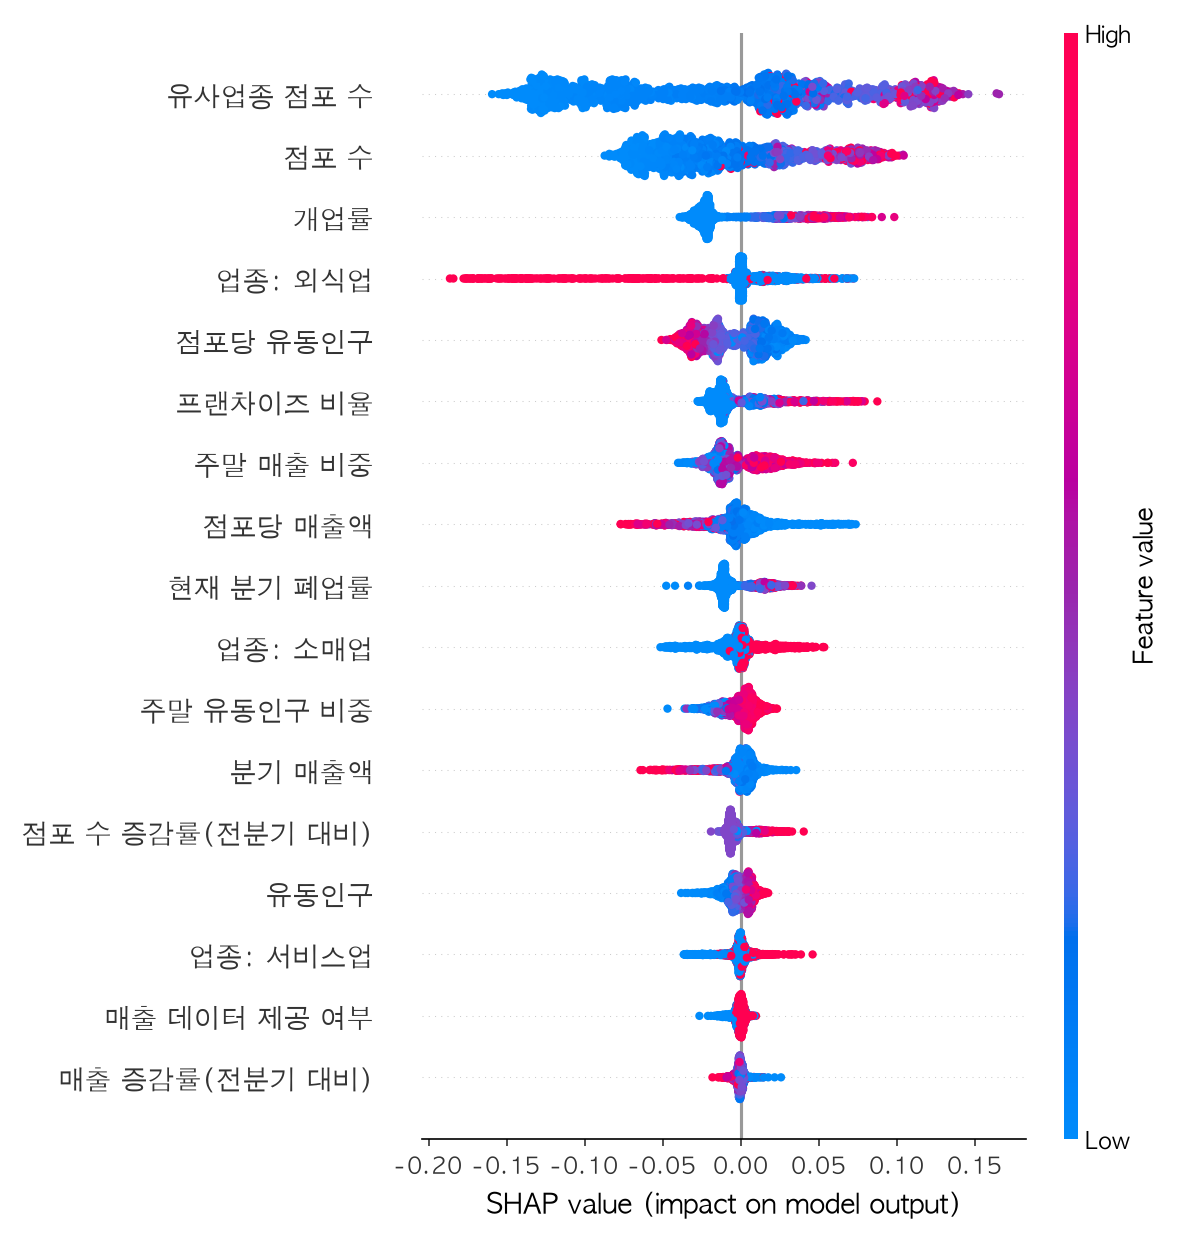
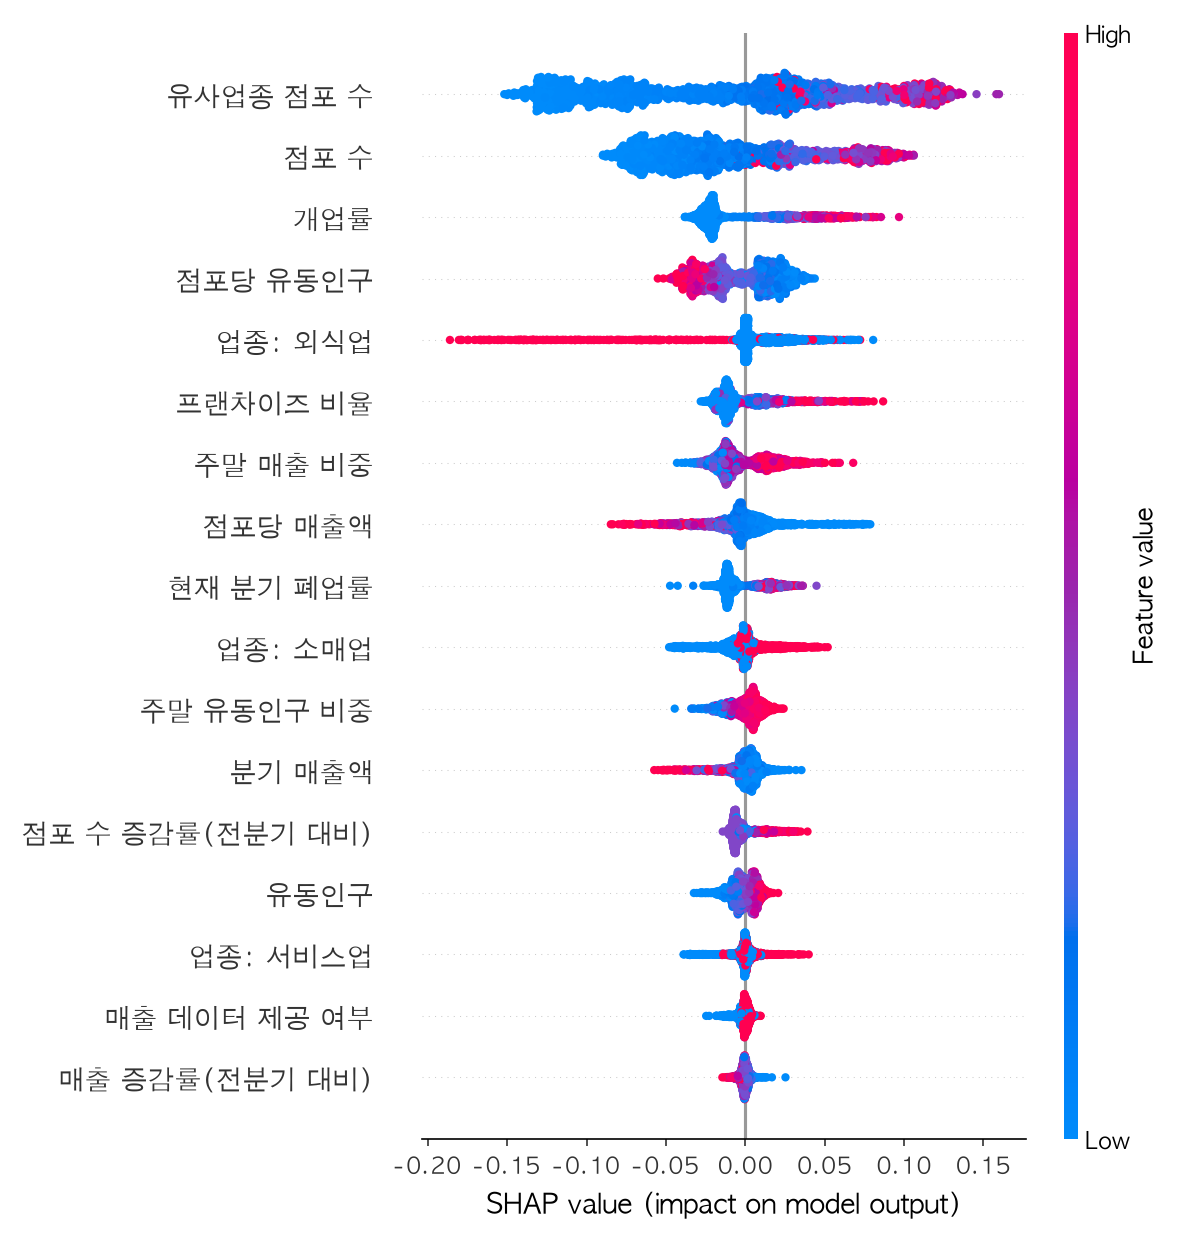
Fix sales_per_store to divide by similar-store count (incl. franchises)
추정매출(THSMON_SELNG_AMT)은 일반+프랜차이즈 전체 합계이므로 같은 범위의 점포 수로 나눔.
재학습 결과 성능은 거의 동일(RF Test AUC 0.734). 문서 수치·그림·화면 캡처 갱신, 개발 일지 기록.

diff --git a/ml/pipeline/preprocess.py b/ml/pipeline/preprocess.py
@@ -79,7 +79,8 @@ def build_dataset() -> tuple[pd.DataFrame, pd.DataFrame]:
     df["qidx"] = quarter_index(df["quarter"])
 
     # 파생 피처
-    df["sales_per_store"] = df["sales_amount"] / df["store_count"].replace(0, np.nan)
+    # 추정매출은 일반+프랜차이즈 전체(= 유사업종 점포)의 합계이므로 같은 범위의 점포 수로 나눈다
+    df["sales_per_store"] = df["sales_amount"] / df["similar_store_count"].replace(0, np.nan)
     df["pop_per_store"] = df["floating_pop"] / df["similar_store_count"].replace(0, np.nan)
     df = add_qoq(df, "store_count", "store_count_qoq")
     df = add_qoq(df, "sales_amount", "sales_qoq")

diff --git a/docs/07_devlog.md b/docs/07_devlog.md
@@ -114,3 +114,22 @@
 - [ ] `ml/pipeline/collect.py`에 거시 지표 수집 추가 → `data/raw/macro.csv`
 - [ ] `preprocess.py`에서 분기 키로 결합, 변화율·업종 교호 피처 생성
 - [ ] 결측치 비교 실험과 함께 거시 지표 추가 전/후 성능 비교
+
+## 2026-10-14 (2) · 추정매출 컬럼 확인 & 피처 수정
+
+### 확인한 것: `THSMON_SELNG_AMT`(당월_매출_금액)
+- 공식 설명은 "추정매출 = 카드 결제금액 ÷ 보정비율"뿐이고, 기간(분기/월)과 집계 방식(합계/평균)은 명시되어 있지 않음
+- 데이터로 확인한 결과 **평균이 아니라 해당 분기·행정동·업종 전체의 합계**
+  - 요일 7개 합, 주중+주말 합, 시간대 6개 합이 모두 `THSMON_SELNG_AMT`와 정확히 일치
+  - 점포 수에 비례해 커짐 (log 기울기 1.22)
+  - 합산 대상은 **일반 + 프랜차이즈 = 유사업종 점포** 전체 (`SIMILR_INDUTY_STOR_CO = STOR_CO + FRC_STOR_CO`가 모든 행에서 성립)
+- 점포당 규모(한식 약 5천만 원, 미용실 약 860만 원)로 보아 **한 달 치 수준으로 추정**. 분기 내 특정 월인지 월평균인지는 미확인 → 서울신용보증재단 데이터분석팀 문의 필요
+- 성별·연령대별 합은 총매출의 약 89% (나머지는 성별·연령 미상 결제)
+
+### 수정한 것
+| # | 결정 | 이유 |
+| --- | --- | --- |
+| D16 | `sales_per_store` 분모를 `STOR_CO` → `SIMILR_INDUTY_STOR_CO`로 변경 | 매출은 프랜차이즈 포함 합계인데 프랜차이즈를 뺀 점포 수로 나눠, 프랜차이즈가 많은 업종(편의점 등)의 점포당 매출이 부풀려졌음 |
+
+- 재학습 결과: Random Forest Test AUC 0.734 → 0.734, Recall 0.627 → 0.627로 **성능 변화는 거의 없음**. 최적 파라미터만 `min_samples_split 50 → 20`, `min_samples_leaf 10 → 30`으로 바뀜
+- 피처 정의가 정확해진 것이 목적이므로 그대로 반영. 예시(신월7동 · 커피-음료) 위험도는 66.1% → 64.4%

diff --git a/docs/04_architecture.md b/docs/04_architecture.md
@@ -79,7 +79,7 @@ biz-risk-predictor/
 해당 업종의 모든 행정동 위험도를 반환합니다. (Top 10 목록과 향후 지도 표시에 사용)
 
 ```json
-[{ "dong_code": "11470611", "dong_name": "신월7동", "probability": 0.6612, "level": "위험" }]
+[{ "dong_code": "11470611", "dong_name": "신월7동", "probability": 0.6437, "level": "위험" }]
 ```
 
 ### `GET /diagnose?dong_code=11470611&industry_code=CS100010`
@@ -88,13 +88,13 @@ biz-risk-predictor/
 {
   "quarter": "20262",
   "gu_name": "양천구", "dong_name": "신월7동", "industry_name": "커피-음료",
-  "probability": 0.6612, "level": "위험", "base_value": 0.4999,
+  "probability": 0.6437, "level": "위험", "base_value": 0.4999,
   "contributions": [
-    { "feature": "open_rate", "label": "개업률", "value": 7.0, "shap": 0.0602 },
-    { "feature": "similar_store_count", "label": "유사업종 점포 수", "value": 14.0, "shap": 0.0459 }
+    { "feature": "open_rate", "label": "개업률", "value": 7.0, "shap": 0.0588 },
+    { "feature": "similar_store_count", "label": "유사업종 점포 수", "value": 14.0, "shap": 0.0461 }
   ],
   "advice": [
-    { "feature": "open_rate", "label": "개업률", "shap": 0.0602,
+    { "feature": "open_rate", "label": "개업률", "shap": 0.0588,
       "finding": "신규 개업이 많아 경쟁이 빠르게 늘고 있습니다.",
       "action": "신규 경쟁점 대비 차별화 요소를 미리 준비하세요." }
   ]
